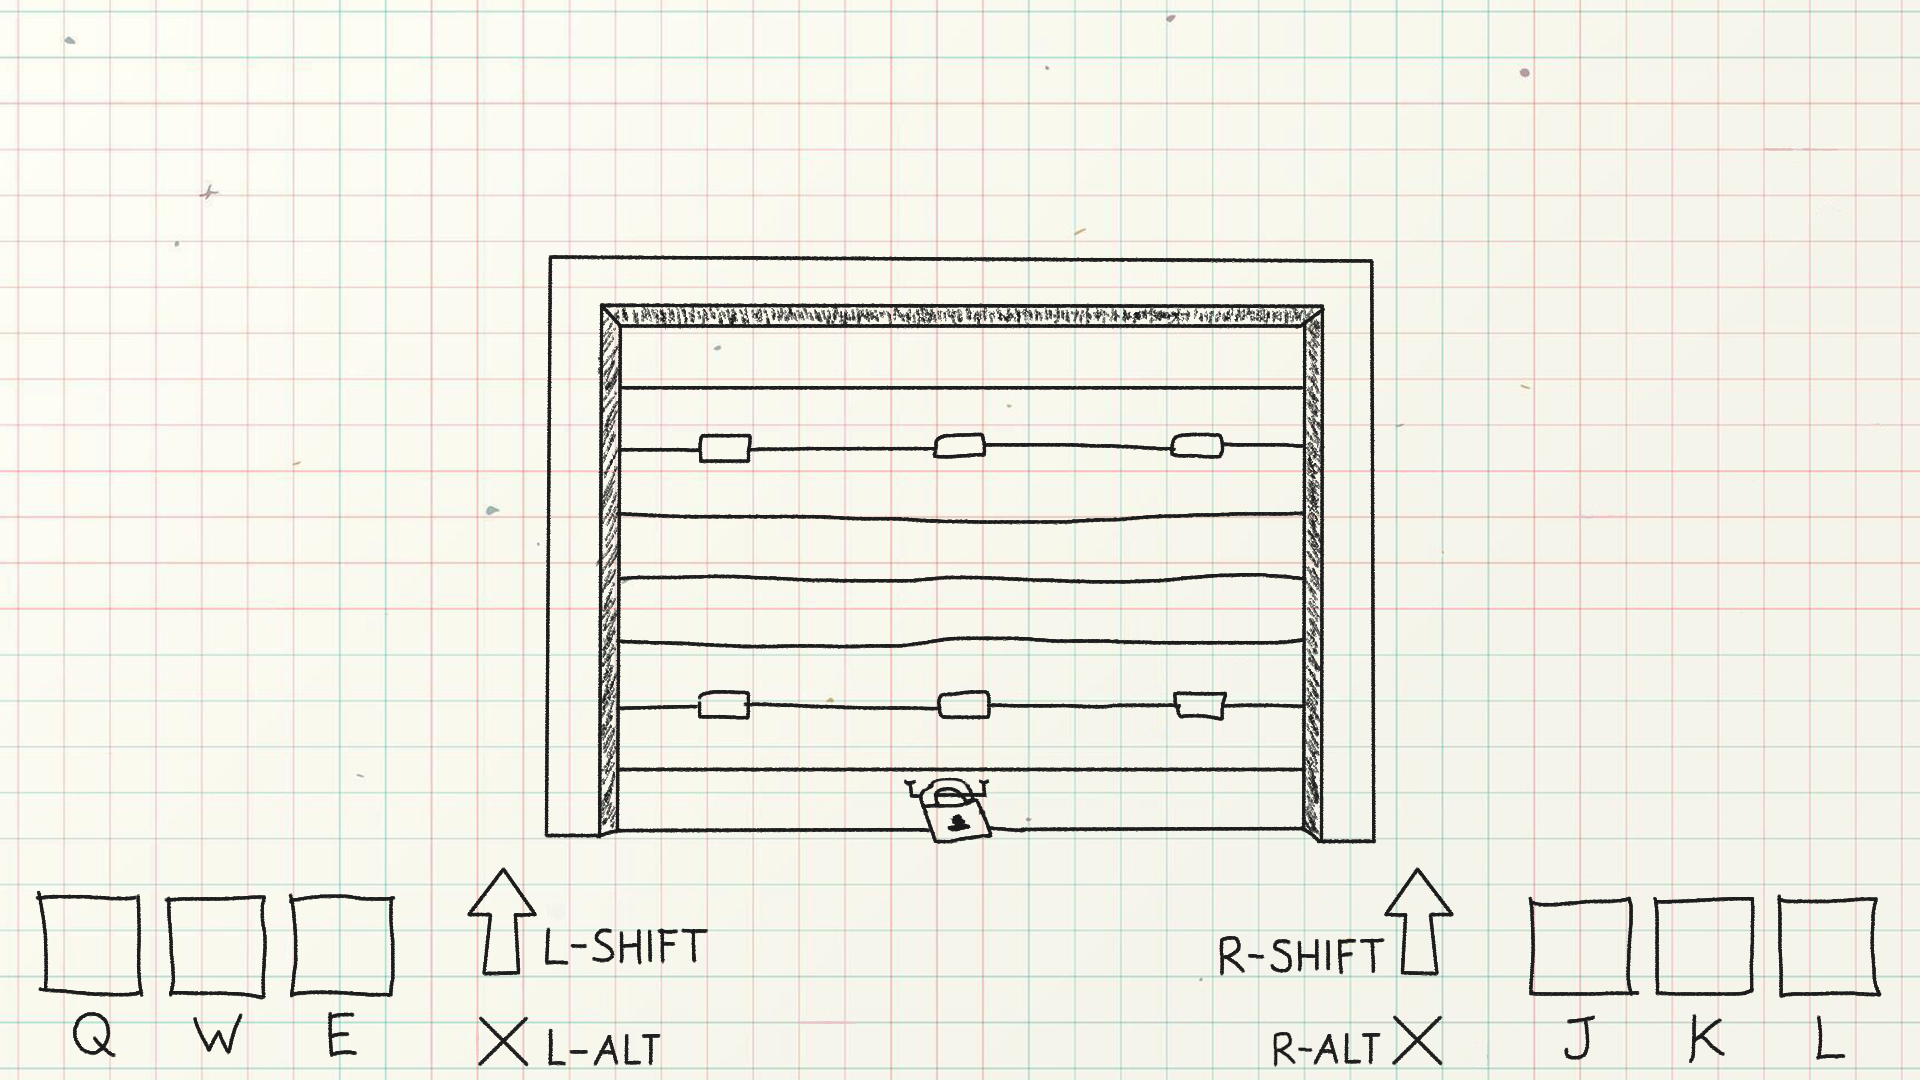
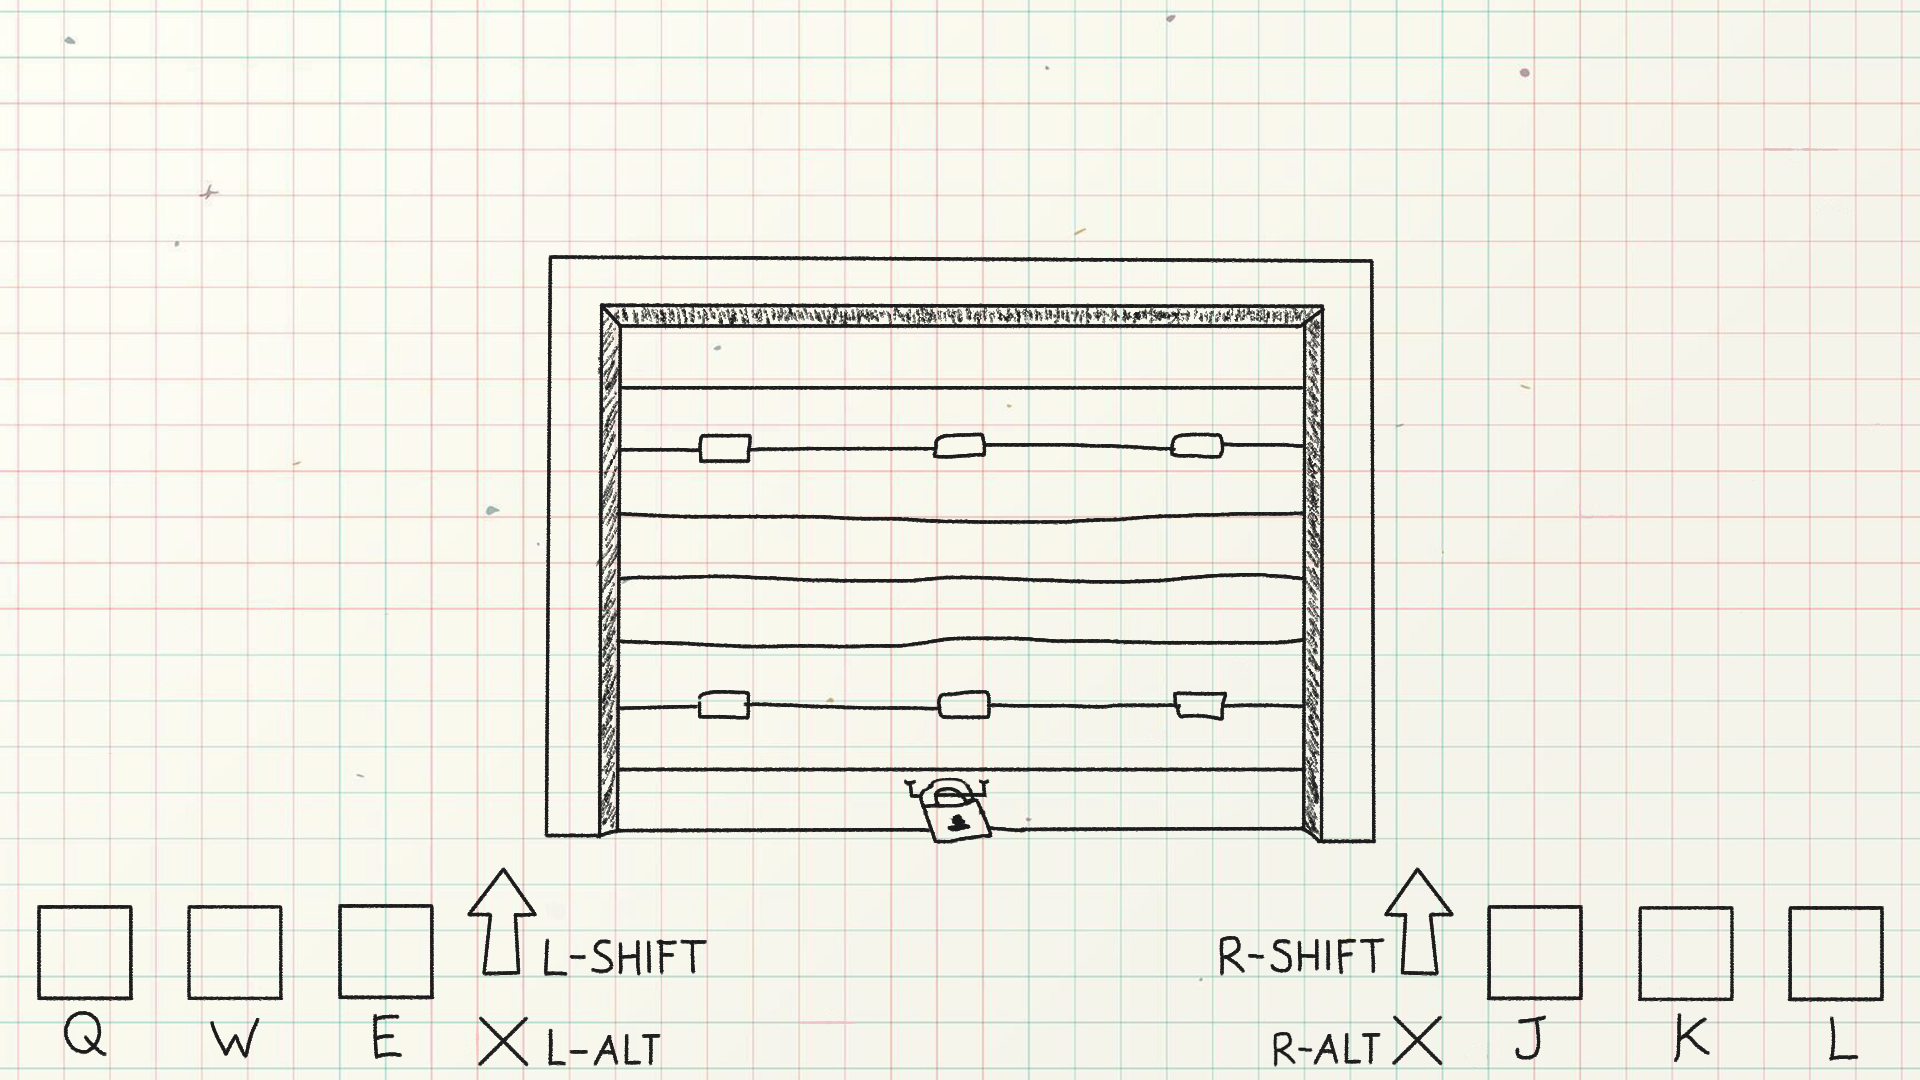
Aşama 7 Bitti

Changed region(s): [[0.0, 0.825, 0.2188, 0.9778], [0.7812, 0.825, 1.0, 0.9778], [0.2812, 0.8556, 0.375, 0.9167]]

diff --git a/StorageWars/Scripts/Managers/ShopManager.cs b/StorageWars/Scripts/Managers/ShopManager.cs
@@ -5,57 +5,71 @@ namespace StorageWars
 {
     public class ShopManager
     {
-        private readonly List<Skill> _dailySkills = new List<Skill>();
+        private readonly List<Skill> _p1DailySkills = new List<Skill>();
+        private readonly List<Skill> _p2DailySkills = new List<Skill>();
+
         private readonly Random _rnd = new Random();
 
-        public IReadOnlyList<Skill> DailySkills => _dailySkills;
+        public IReadOnlyList<Skill> P1DailySkills => _p1DailySkills;
+        public IReadOnlyList<Skill> P2DailySkills => _p2DailySkills;
         
         public int P1SelectedSlot { get; private set; } = 0; 
         public int P2SelectedSlot { get; private set; } = 0;
 
         public void RollDailySkills(float inflation) 
         {
-            _dailySkills.Clear();
+            _p1DailySkills.Clear();
+            _p2DailySkills.Clear();
+
             for (int i = 0; i < 3; i++)
             {
-                _dailySkills.Add(SkillDatabase.GetRandomSkill(inflation));
+                _p1DailySkills.Add(SkillDatabase.GetRandomSkill(inflation));
+                _p2DailySkills.Add(SkillDatabase.GetRandomSkill(inflation));
             }
         }
 
-        public void MoveSelection(int playerIndex, int direction)   // Marketteki yetenekler arasında imleci sağa veya sola hareket ettirir.
+        public void MoveSelection(int playerIndex, int direction)
         {
             if (playerIndex == 1) P1SelectedSlot = (P1SelectedSlot + direction + 3) % 3;
             else if (playerIndex == 2) P2SelectedSlot = (P2SelectedSlot + direction + 3) % 3;
         }
 
-        public bool BuySkill(Player player, int playerIndex)   // Oyuncunun parası yetiyorsa seçili slotun üzerindeki yeteneği satın almasını sağlar.
+        public bool BuySkill(Player player, int playerIndex)
         {
             int slot = (playerIndex == 1) ? P1SelectedSlot : P2SelectedSlot;
-            if (_dailySkills.Count <= slot) return false;
+            var currentPool = (playerIndex == 1) ? _p1DailySkills : _p2DailySkills;
 
-            Skill skillToBuy = _dailySkills[slot];
+            if (currentPool.Count <= slot) return false;
 
-            if (player.Money >= skillToBuy.Price)
+            Skill skillToBuy = currentPool[slot];
+
+            if (player.Money < skillToBuy.Price) return false;
+
+            if (player.AddSkill(skillToBuy))
             {
                 player.SpendMoney(skillToBuy.Price);
-                player.SetSkill(slot, skillToBuy);
                 return true;
             }
-            return false;
+
+            return false; 
         }
 
-        public bool SellSkill(Player player, int playerIndex)  // Oyuncunun kendi envanterindeki yeteneği (Eğer varsa) yarı fiyatına satmasını sağlar.
+        public bool RefundSkill(Player player, int playerIndex)
         {
             int slot = (playerIndex == 1) ? P1SelectedSlot : P2SelectedSlot;
-            Skill existingSkill = player.EquippedSkills[slot];
+            var currentPool = (playerIndex == 1) ? _p1DailySkills : _p2DailySkills;
 
-            if (existingSkill != null)
+            if (currentPool.Count <= slot) return false;
+
+            Skill skillToRefund = currentPool[slot];
+
+            if (player.RemoveSkill(skillToRefund.Name, out Skill removedSkill))
             {
-                int refund = existingSkill.Price / 2;
-                player.EarnMoney(refund);
-                player.EquippedSkills[slot] = null;
+                int refundAmount = removedSkill.Price / 2;
+                player.EarnMoney(refundAmount); 
                 return true;
             }
+
             return false;
         }
     }

diff --git a/StorageWars/Scripts/Models/Player.cs b/StorageWars/Scripts/Models/Player.cs
@@ -13,7 +13,36 @@ namespace StorageWars
         public Skill[] EquippedSkills { get; private set; } = new Skill[3];
         public Item[,] InventoryGrid { get; private set; } = new Item[GameConstants.InventoryCols, GameConstants.InventoryRows];
 
-        public CharacterState GetCurrentState(AuctionManager am, BidderType myType, bool isOut)  // İhale sırasındaki gidişata göre oyuncunun anlık animasyon (çizim) durumunu hesaplar
+
+        public bool AddSkill(Skill skill)    //Yeteneği ilk boş slota (1, 2 veya 3) ekler.
+        {
+            for (int i = 0; i < EquippedSkills.Length; i++)
+            {
+                if (EquippedSkills[i] == null)
+                {
+                    EquippedSkills[i] = skill;
+                    return true;
+                }
+            }
+            return false;
+        }
+
+        public bool RemoveSkill(string skillName, out Skill removedSkill)  //İade edilmek istenen yeteneği çantada bulur ve siler.
+        {
+            for (int i = 0; i < EquippedSkills.Length; i++)
+            {
+                if (EquippedSkills[i] != null && EquippedSkills[i].Name == skillName)
+                {
+                    removedSkill = EquippedSkills[i];
+                    EquippedSkills[i] = null;
+                    return true;
+                }
+            }
+            removedSkill = null;
+            return false;
+        }
+
+        public CharacterState GetCurrentState(AuctionManager am, BidderType myType, bool isOut)
         {
             if (!am.IsAuctionActive) return CharacterState.Idle; 
             if (isOut) return CharacterState.Passed; 
@@ -31,25 +60,19 @@ namespace StorageWars
             return CharacterState.Thinking; 
         }
 
-        public bool PayDebt(int amount) // Oyuncunun borç ödemesini yapar ve ödediği borç kadar maksimum canını (HP) artırır.
+        public bool PayDebt(int amount) 
         {
             if (Money >= amount && Debt > 0) 
             {
-
                 int actualPayment = System.Math.Min(Debt, amount);
-
                 Money -= actualPayment;
                 Debt -= actualPayment; 
                 
                 MaxHP += actualPayment;
-                if (MaxHP > GameConstants.MaxPlayerHP) 
-                {
-                    MaxHP = GameConstants.MaxPlayerHP; // Canın maksimum sınırı aşmasını engeller
-                }
+                if (MaxHP > GameConstants.MaxPlayerHP) MaxHP = GameConstants.MaxPlayerHP; 
 
                 return true;
             }
-            
             return false;
         }
 
@@ -79,12 +102,6 @@ namespace StorageWars
         {
             if (x >= 0 && x < GameConstants.InventoryCols && y >= 0 && y < GameConstants.InventoryRows)
                 InventoryGrid[x, y] = item;
-        }
-
-        public void SetSkill(int slot, Skill skill)
-        {
-            if (slot >= 0 && slot < EquippedSkills.Length)
-                EquippedSkills[slot] = skill;
         }
     }
 }

diff --git a/StorageWars/Scripts/UI/UIAuctionSkillRenderer.cs b/StorageWars/Scripts/UI/UIAuctionSkillRenderer.cs
@@ -1,0 +1,40 @@
+using Microsoft.Xna.Framework;
+using Microsoft.Xna.Framework.Graphics;
+
+namespace StorageWars
+{
+    public class UIAuctionSkillRenderer
+    {
+        private const float AuctionSkillScale = 0.35f; 
+
+        public void DrawActiveSkills(SpriteBatch sb, Player p1, Player p2)
+        {
+            DrawPlayerSkills(sb, p1, UIConfig.P1AuctionSkillSlots);
+            DrawPlayerSkills(sb, p2, UIConfig.P2AuctionSkillSlots);
+        }
+
+        private void DrawPlayerSkills(SpriteBatch sb, Player player, Vector2[] slotCoords)
+        {
+            for (int i = 0; i < player.EquippedSkills.Length; i++)
+            {
+                if (i >= slotCoords.Length) break;
+
+                Skill skill = player.EquippedSkills[i];
+                Vector2 slotPos = slotCoords[i];
+
+                if (skill != null)
+                {
+                    Texture2D skillTex = AssetManager.GetSkillTexture(skill.TextureName);
+                    Vector2 origin = new Vector2(skillTex.Width / 2f, skillTex.Height);
+
+                    sb.Draw(skillTex, slotPos, null, Color.White, 0f, origin, AuctionSkillScale, SpriteEffects.None, 0f);
+                }
+                else
+                {
+                    Rectangle emptyRect = new Rectangle((int)slotPos.X - 45, (int)slotPos.Y - 90, 90, 90);
+                    sb.Draw(AssetManager.Pixel, emptyRect, Color.Black * 0.2f);
+                }
+            }
+        }
+    }
+}

diff --git a/StorageWars/Scripts/States/ShopPhaseState.cs b/StorageWars/Scripts/States/ShopPhaseState.cs
@@ -19,29 +19,31 @@ namespace StorageWars
             var p1 = _game.Player1;
             var p2 = _game.Player2;
 
+            // --- P1 KONTROLLERİ ---
             if (input.IsP1Up()) 
             { shop.MoveSelection(1, -1); audio.PlayNav(); }
 
             if (input.IsP1Down()) 
             { shop.MoveSelection(1, 1); audio.PlayNav(); }
 
-            if (input.IsP1SecondaryAction()) 
+            if (input.IsP1SecondaryAction()) // P1 Satın Alma (E)
             { if (shop.BuySkill(p1, 1)) audio.PlayBuy(); else audio.PlayError(); }
 
-            if (input.IsP1PrimaryAction()) 
-            { if (shop.SellSkill(p1, 1)) audio.PlaySell(); else audio.PlayError(); }
+            if (input.IsP1PrimaryAction()) // P1 İade Etme (Q)
+            { if (shop.RefundSkill(p1, 1)) audio.PlaySell(); else audio.PlayError(); }
 
+            // --- P2 KONTROLLERİ ---
             if (input.IsP2Up()) 
             { shop.MoveSelection(2, -1); audio.PlayNav(); }
 
             if (input.IsP2Down()) 
             { shop.MoveSelection(2, 1); audio.PlayNav(); }
 
-            if (input.IsP2SecondaryAction()) 
+            if (input.IsP2SecondaryAction()) // P2 Satın Alma (O)
             { if (shop.BuySkill(p2, 2)) audio.PlayBuy(); else audio.PlayError(); }
 
-            if (input.IsP2PrimaryAction()) 
-            { if (shop.SellSkill(p2, 2)) audio.PlaySell(); else audio.PlayError(); }
+            if (input.IsP2PrimaryAction()) // P2 İade Etme (I)
+            { if (shop.RefundSkill(p2, 2)) audio.PlaySell(); else audio.PlayError(); }
 
 
             if (input.IsNextPhase())

diff --git a/StorageWars/Scripts/UI/UIShopRenderer.cs b/StorageWars/Scripts/UI/UIShopRenderer.cs
@@ -1,5 +1,6 @@
 using Microsoft.Xna.Framework;
 using Microsoft.Xna.Framework.Graphics;
+using System.Collections.Generic;
 
 namespace StorageWars
 {
@@ -12,23 +13,22 @@ namespace StorageWars
             AssetManager.DrawTextBottomCenter(spriteBatch, $"${p1.Money}", UIConfig.P1ShopMoneyPos, Color.DarkGreen);
             AssetManager.DrawTextBottomCenter(spriteBatch, $"${p2.Money}", UIConfig.P2ShopMoneyPos, Color.DarkGreen);
 
-            DrawShopSlots(spriteBatch, shop, UIConfig.P1ShopSlots, UIConfig.P1ShopNameOffsets, UIConfig.P1ShopPriceOffsets, UIConfig.P1ShopCursorOffsets, shop.P1SelectedSlot, Color.Blue, 1);
-            DrawShopSlots(spriteBatch, shop, UIConfig.P2ShopSlots, UIConfig.P2ShopNameOffsets, UIConfig.P2ShopPriceOffsets, UIConfig.P2ShopCursorOffsets, shop.P2SelectedSlot, Color.Red, 2);
+            DrawShopSlots(spriteBatch, shop.P1DailySkills, UIConfig.P1ShopSlots, UIConfig.P1ShopNameOffsets, UIConfig.P1ShopPriceOffsets, UIConfig.P1ShopCursorOffsets, shop.P1SelectedSlot, Color.Blue, 1);
+            DrawShopSlots(spriteBatch, shop.P2DailySkills, UIConfig.P2ShopSlots, UIConfig.P2ShopNameOffsets, UIConfig.P2ShopPriceOffsets, UIConfig.P2ShopCursorOffsets, shop.P2SelectedSlot, Color.Red, 2);
         }
 
-        private void DrawShopSlots(SpriteBatch sb, ShopManager shop, Vector2[] slotCoords, Vector2[] nameCoords, Vector2[] priceCoords, Vector2[] cursorCoords, int selectedIndex, Color cursorColor, int playerIndex)
+        private void DrawShopSlots(SpriteBatch sb, IReadOnlyList<Skill> skills, Vector2[] slotCoords, Vector2[] nameCoords, Vector2[] priceCoords, Vector2[] cursorCoords, int selectedIndex, Color cursorColor, int playerIndex)
         {
             Vector2 cursorSize = AssetManager.GameFont.MeasureString(">");
             Vector2 cursorOrigin = new Vector2(cursorSize.X / 2f, cursorSize.Y / 2f);
             float rotation = (playerIndex == 1) ? UIConfig.P1ShopCursorRotation : UIConfig.P2ShopCursorRotation;
-
             float skillScale = 0.7f; 
 
             for (int i = 0; i < 3; i++)
             {
-                if (shop.DailySkills.Count > i)
+                if (skills.Count > i)
                 {
-                    Skill s = shop.DailySkills[i];
+                    Skill s = skills[i];
                     Texture2D skillTex = AssetManager.GetSkillTexture(s.TextureName);
                     Vector2 skillOrigin = new Vector2(skillTex.Width / 2f, skillTex.Height);
                     

diff --git a/StorageWars/Scripts/UI/UIAuctionRenderer.cs b/StorageWars/Scripts/UI/UIAuctionRenderer.cs
@@ -12,6 +12,8 @@ namespace StorageWars
         private float _currentDeltaTime = 0f;
         private float _displayedPrice = 100f;
 
+        private UIAuctionSkillRenderer _auctionSkillRenderer = new UIAuctionSkillRenderer();
+
         public void Update(GameTime gameTime, AuctionManager auctionManager)
         {
             _currentDeltaTime = (float)gameTime.ElapsedGameTime.TotalSeconds;
@@ -27,6 +29,9 @@ namespace StorageWars
         public void Draw(SpriteBatch spriteBatch, AuctionManager auctionManager, Player p1, Player p2, RoundManager roundManager, AIBot bot)
         {
             if (AssetManager.BgAuction != null) spriteBatch.Draw(AssetManager.BgAuction, Vector2.Zero, Color.White);
+            
+            _auctionSkillRenderer.DrawActiveSkills(spriteBatch, p1, p2);
+
             int animatedPrice = (int)Math.Round(_displayedPrice);
 
             AssetManager.DrawTextBottomCenter(spriteBatch, $"ROUND: {roundManager.CurrentRound} / {GameConstants.MaxRounds}", UIConfig.RoundTextPos, Color.Black);

diff --git a/StorageWars/Scripts/UI/UIConfig.cs b/StorageWars/Scripts/UI/UIConfig.cs
@@ -8,6 +8,9 @@ namespace StorageWars
         public static readonly Vector2 RoundTextPos = new Vector2(960, 119);
         public static readonly Vector2 CurrentBidPos = new Vector2(960, 209);
 
+        public static readonly Vector2[] P1AuctionSkillSlots = { new Vector2(86, 998), new Vector2(235, 998), new Vector2(387, 998) };
+        public static readonly Vector2[] P2AuctionSkillSlots = { new Vector2(1535, 998), new Vector2(1684, 998), new Vector2(1836, 998) };
+
         // --- P1 --- 
         public static readonly Vector2 P1TitlePos = new Vector2(300, 850);
         public static readonly Vector2 P1MoneyPos = new Vector2(300, 895);